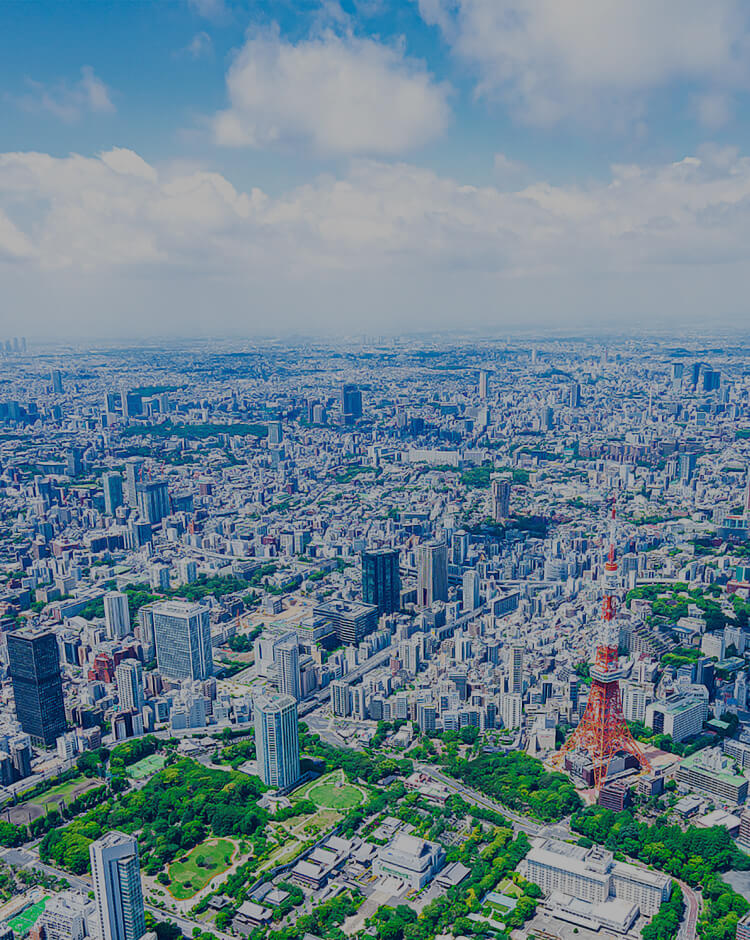
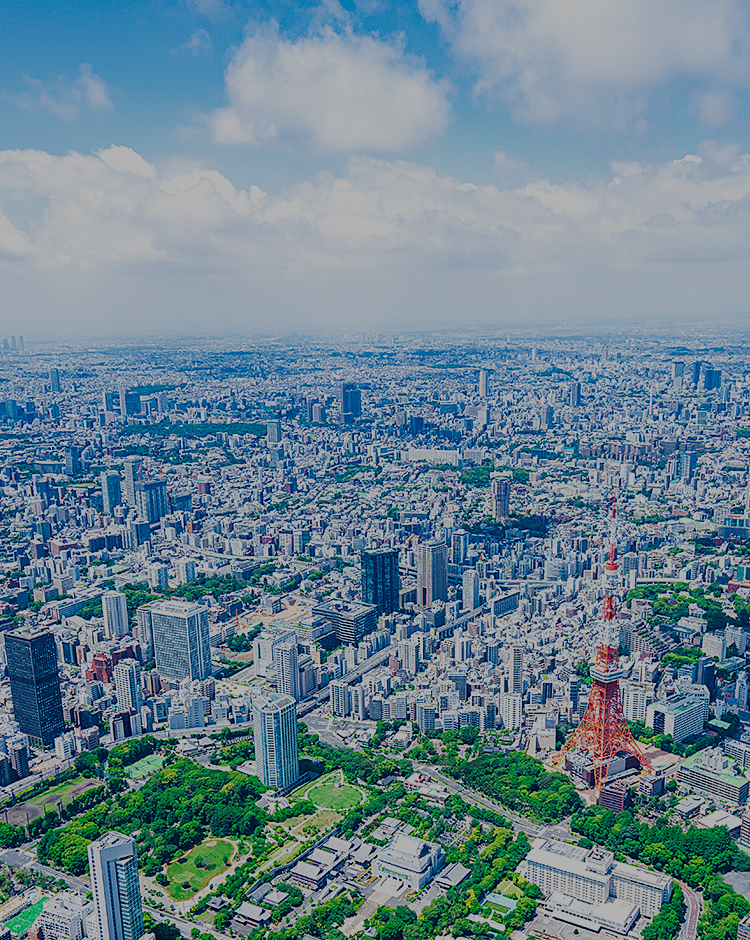
トップページ　ビジュアル1枚のみに修正

diff --git a/common/css/sp/index.css b/common/css/sp/index.css
@@ -114,18 +114,18 @@
   left: 0;
   bottom: 0;
   right: 0;
-  opacity: 0;
+  /*opacity: 0;*/
   background-size: cover;
   background-position: center center;  
-  animation: image-switch-animation 12s infinite;
-	animation-timing-function: ease-in;
+ /* animation: image-switch-animation 12s infinite;
+	animation-timing-function: ease-in;*/
 }
 
 .index-visual-bg__item._bg01_ {
 	background: url("../../img/index/pic_visual01_sp.jpg") center center no-repeat;
   background-size: cover;
 }
-
+/*
 .index-visual-bg__item._bg02_ {
 	background: url("../../img/index/pic_visual02_sp.jpg") center center no-repeat;
   background-size: cover;
@@ -161,7 +161,7 @@
   30%{ opacity: 0;}
   100%{ opacity: 0;}
 }
-
+*/
 /* ============================================================ */
 /* .index-about */
 /* ============================================================ */

diff --git a/common/css/pc/index.css b/common/css/pc/index.css
@@ -128,18 +128,18 @@
   left: 0;
   bottom: 0;
   right: 0;
-  opacity: 0;
+  /*opacity: 0;*/
   background-size: cover;
   background-position: center center;  
-  animation: image-switch-animation 12s infinite;
-	animation-timing-function: ease-in;
+  /*animation: image-switch-animation 12s infinite;
+	animation-timing-function: ease-in;*/
 }
 
 .index-visual-bg__item._bg01_ {
 	background: url("../../img/index/pic_visual01.jpg") center center no-repeat;
   background-size: cover;
 }
-
+/*
 .index-visual-bg__item._bg02_ {
 	background: url("../../img/index/pic_visual02.jpg") center center no-repeat;
   background-size: cover;
@@ -174,7 +174,7 @@
   25%{ opacity: 1;}
   30%{ opacity: 0;}
   100%{ opacity: 0;}
-}
+}*/
 
 /* ============================================================ */
 /* .index-about */

diff --git a/index.html b/index.html
@@ -41,9 +41,9 @@
 							<h1 class="__ttl">繋がりをカタチに <br class="sp_view">～人・物・情報～</h1>
 						</div>
 					</div>
-					<div class="index-visual-bg__item _bg02_"></div>
+					<!--<div class="index-visual-bg__item _bg02_"></div>
 					<div class="index-visual-bg__item _bg03_"></div>
-					<div class="index-visual-bg__item _bg04_"></div>
+					<div class="index-visual-bg__item _bg04_"></div>-->
 				</div>
 				<p class="index-visual__scroll"><span class="__border">Scroll</span></p>
 			</div>
